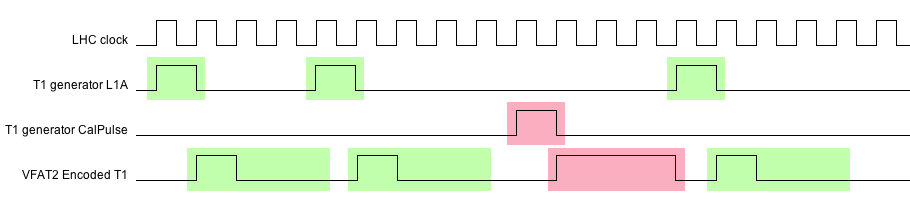
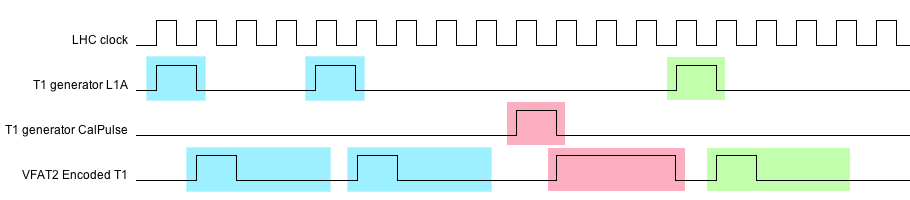
Quick save at Sat Oct  8 18:04:30 UTC 2016

Changed region(s): [[0.1846, 0.72, 0.5538, 0.96], [0.1538, 0.27, 0.2462, 0.51], [0.3077, 0.27, 0.4, 0.51]]

diff --git a/chapters/II-3-test-beam.tex b/chapters/II-3-test-beam.tex
@@ -14,7 +14,7 @@
     \begin{figure}[h!]
       \centering
       \includegraphics[width=\textwidth]{img/II-3-test-beam/system}
-      \caption{Schematic diagram of the modules implemented in the firmware of the OptoHybrid.}
+      \caption{Schematic diagram of the modules implemented in the firmware of the OptoHybrid regrouped by functionality.}
       \label{fig:II-3-sys}
     \end{figure}
 
@@ -40,7 +40,7 @@
       \begin{figure}[h!]
         \centering
         \includegraphics[width=\textwidth]{img/II-3-test-beam/t1-chrono.png}
-        \caption{Chronograph of two events generated by the T1 generator and encoded on the T1 lines for the VFAT2s: first two L1As (green) are sent with a fixed interval, then a CalPulse (red) is generated followed by a L1A after a defined delay. The T1 commands are encoded on three bits for the VFAT2s (100 for L1As and 111 for CalPulses).}
+        \caption{Chronograph of two events generated by the T1 generator and encoded on the T1 lines for the VFAT2s: first two L1As (blue) are sent with a fixed interval, then a CalPulse (red) is generated followed by a L1A after a defined delay. The T1 commands are encoded on three bits for the VFAT2s ("100" for L1As and "111" for CalPulses).}
         \label{fig:II-3-t1-chrono}
       \end{figure}
 
@@ -118,7 +118,7 @@
 
       \begin{figure}[h!]
         \centering
-        \includegraphics[width=0.7\textwidth]{img/II-3-test-beam/i2c-extended}
+        \includegraphics[width=0.6\textwidth]{img/II-3-test-beam/i2c-extended}
         \caption{Addressing of the extended registers through two primary registers.}
         \label{fig:II-3-i2c-extended}
       \end{figure}
@@ -488,7 +488,7 @@
 
     \subsection{Evolution of the Efficiency with the Trigger Rate}
 
-      Similarly to the measurements and computations made for the previous study, the effect of trigger rate on the efficiency was measured. Focus is given on the latter as it has been noted that noise levels are not influenced by the increase in rate. Figure \ref{fig:II-3-data-eff-rate} plots the measured efficiency (blue), computed efficiency (orange), and tracking data based efficiency (purple) as a function of the trigger rates for GEM0 on the left and GEM1 on the right with pions. Control over the trigger rates were done using collimaters in front of the beam setup. \\
+      Similarly to the measurements and computations made for the previous study, the effect of trigger rate on the efficiency was measured. Focus is given on the latter as the noise levels are not influenced by the increase in rate and remain at 4\%. Figure \ref{fig:II-3-data-eff-rate} plots the measured efficiency (blue), computed efficiency (orange), and tracking data based efficiency (purple) as a function of the trigger rates for GEM0 on the left and GEM1 on the right with pions. Control over the trigger rates were done using collimaters in front of the beam setup. \\
 
       \begin{figure}[h!]
         \centering
@@ -498,7 +498,7 @@
         \label{fig:II-3-data-eff-rate}
       \end{figure}
 
-      These results support the fact that the DAQ system can sustain rates up to several tens of kilohertz. When going from 20 kHz to 120 kHz, a drop in efficiency of 1\% is observed for GEM0 and of roughly 2\% for GEM1. It is important to emphasize that these results show the performance of the whole system: the efficiency of the detector and the performance of the DAQ system. Furthermore, when lowering the working threshold of the VFAT2s to 15 instead of 25, the efficiency increases by 1\% to 2\%.
+      Similarly to the results shown in the previous section, the deviation between the efficiency obtained using the latency scans and the tracking data for GEM1 comes from the higher noise to which it is subject. These results support the fact that the DAQ system can sustain rates up to several tens of kilohertz. When going from 20 kHz to 120 kHz, a drop in efficiency of 1\% is observed for GEM0 and of roughly 2\% for GEM1. In CMS, the trigger rate will be of 100 kHz for the LHC Phase I, value at which the efficiency is above 96\% for GEM0. It is important to emphasize that these results show the performance of the whole system: the efficiency of the detector and the performance of the DAQ system. Furthermore, the measurements of the efficiency against the threshold show that when lowering the working threshold of the VFAT2s to 15 instead of 25, the efficiency increases by 1\% to 2\%.
 
     \subsection{Cluster Multiplicity and Size}
 
@@ -512,7 +512,7 @@
         \label{fig:II-3-data-clu-mult}
       \end{figure}
 
-      The cluster multiplicity reflects the number of clusters present in the event, some of which are due to noise, others to signal. Its evolution is tightly linked to the evolution of the efficiency as a function of the VFAT2 threshold. It was observed that for threshold values of 25 and 30, the noise and efficiency were only slightly decreasing and remained at 4\% and 97\% respectively. At a higher threshold of 50 VFAT2 units however, the efficiency dropped to 90\%. This explain the proximity of the points at 25 and 30 for both pions and muons in GEM0 and GEM1. When the threshold is further increased to 50, the effects start to appear, cutting the signal and removing clusters. \\
+      The cluster multiplicity reflects the number of clusters present in the event, some of which are due to noise, others to signal. Its evolution is tightly linked to the evolution of the efficiency as a function of the VFAT2 threshold. It was observed that for threshold values of 25 and 30, the noise and efficiency were only slightly decreasing and remained at 4\% and 97\% respectively. At a higher threshold of 50 VFAT2 units however, the efficiency dropped to 90\%. This explains that the points at 25 and 30 for both pions and muons in GEM0 and GEM1 have similar values ($\pm$ 0.1). When the threshold is further increased to 50, the effects start to appear, cutting the signal and removing clusters. \\
 
       The impact of the efficiency according to the threshold is however not directly visible when considering the cluster size. It is clear that the cluster size decreases as the threshold increases, meaning that less and less channels are being fired. At low threshold, clusters contain roughly 1.5 channels and an average of 1.6 clusters are present per event. When increasing the threshold, the average number of channels fired decreases slightly which does not immediately affect the cluster multiplicity: clusters are reduced in size but not in numbers. The counting of cluster is not directly affected by the cluster size when the latter is greater than one. This means that two clusters of size two are equivalent to two clusters of size one. Even if by increasing the threshold, some channels are being deactivated, other channels in the cluster might still remain active thus leaving the cluster statistic unchanged. \\
 
